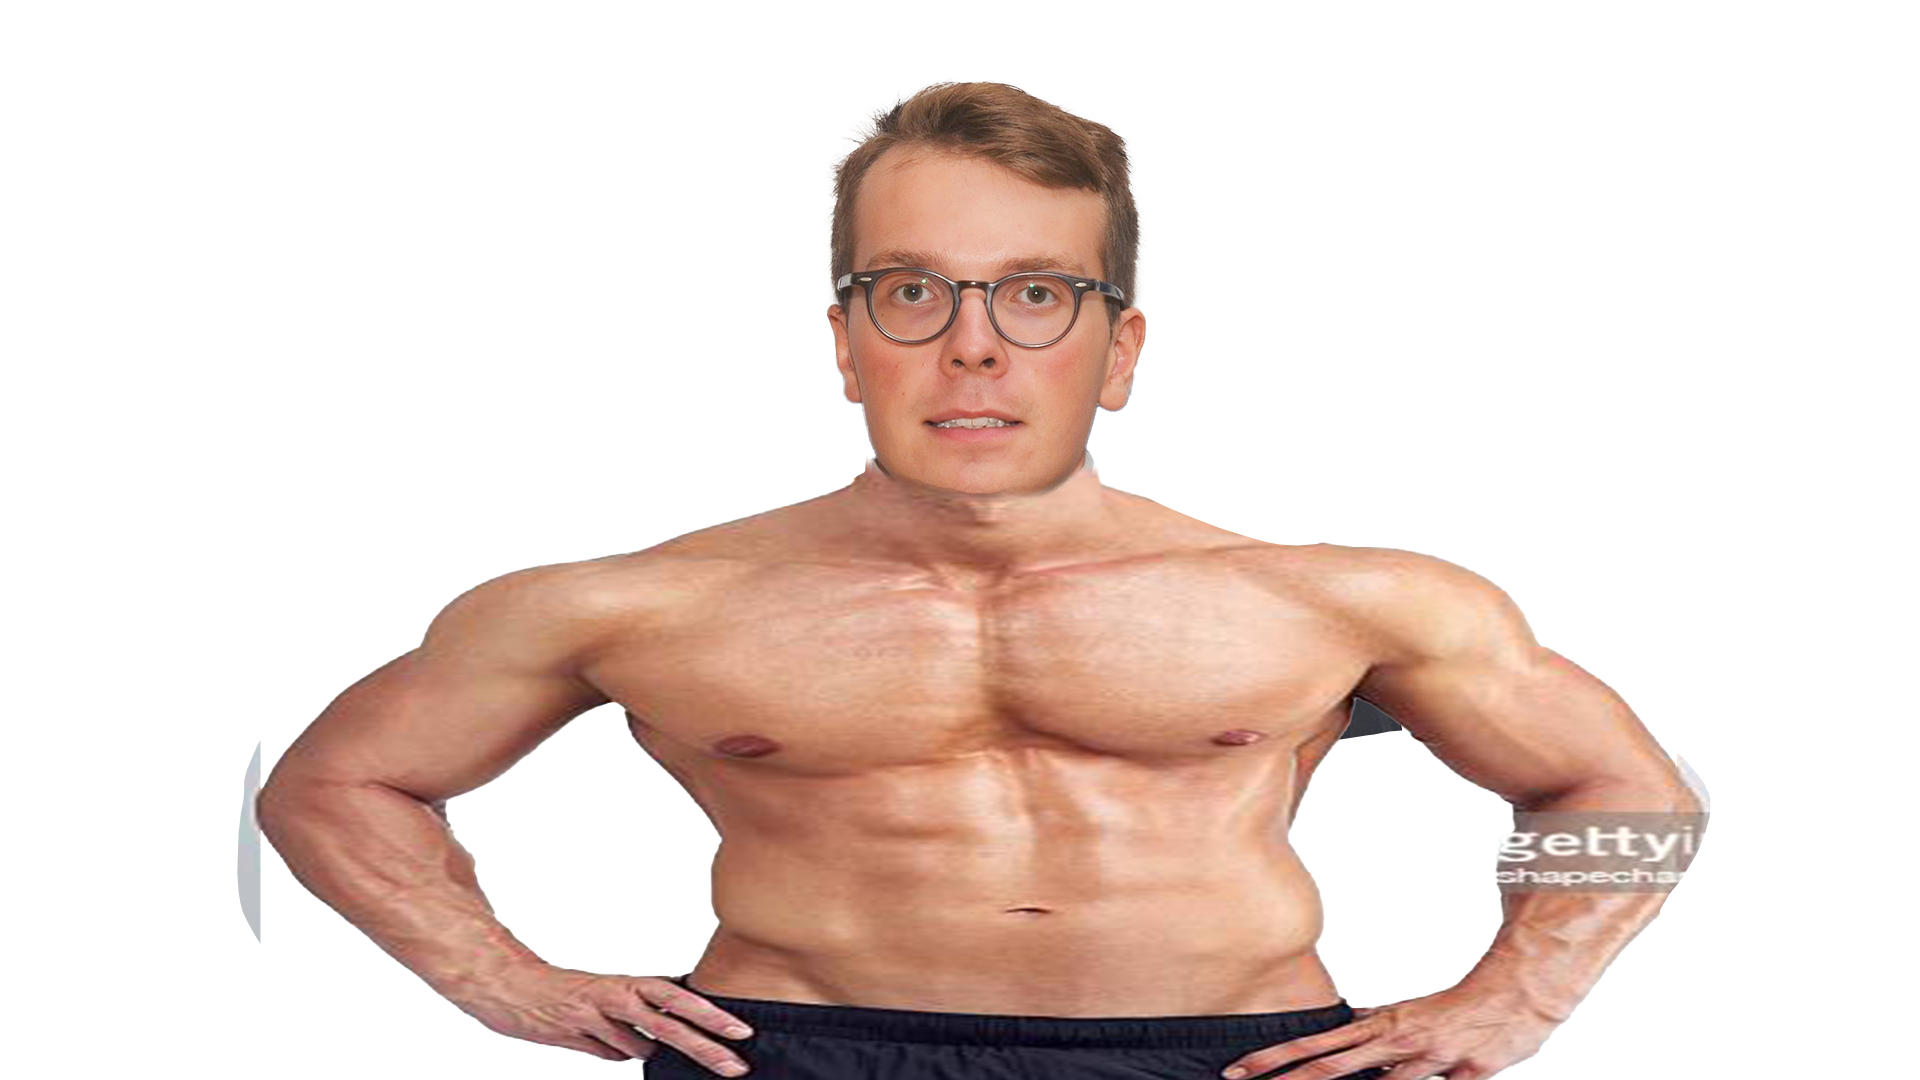
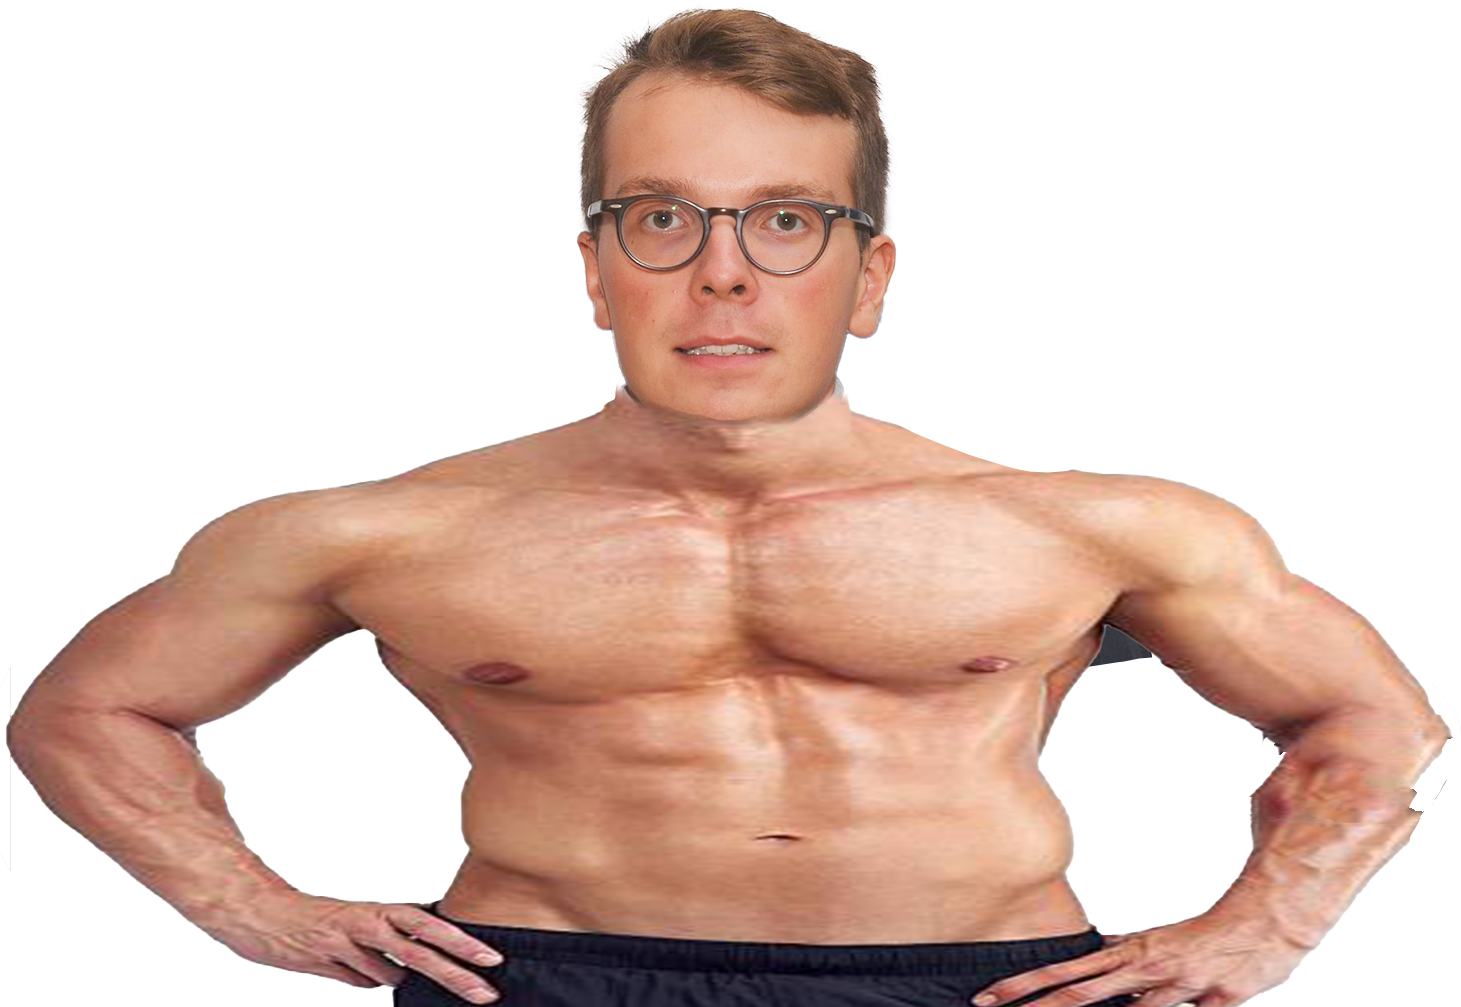
Fix Axus stuff

diff --git a/app/page.tsx b/app/page.tsx
@@ -6,12 +6,9 @@ import Chat from '../components/Chat'
 export default function Home() {
   return (
     <div className='w-full h-full' style={{backgroundImage: 'url("Background.jpg")', backgroundSize: "cover"}}>
-        <div className='flex flex-row h-full w-full'>
-          <div className=" absolute top-10 right-16 text-6xl font-sans" style={{fontFamily: 'Comic Sans MS'}}>SAKARIN VILLAPAITAPELI</div>
-            <NanniWrapper />
-            <div className='flex flex-grow-0'>
-              <Chat />
-            </div>
+        <div className='grid grid-cols-1 grid-rows-2 md:grid-rows-1 md:grid-cols-[3fr_1fr] h-full w-full'>
+            <NanniWrapper/>
+            <Chat />
         </div>
     </div>
   )

diff --git a/components/NanniButton/wrapper.tsx b/components/NanniButton/wrapper.tsx
@@ -2,7 +2,7 @@ import Image from "next/image";
 
 const NanniWrapper = () => {
   return (
-    <div className="w-5/6 h-5/6 padd bg-cover bg-no-repeat absolute bottom-0 right-1/4" style={{backgroundImage: 'url("Sakari.png")', backgroundPosition: "bottom"}}>
+    <div className="w-full h-full bg-contain bg-no-repeat row-span-0 row-start-2 row-end-3 md:row-start-1 md:row-end-2" style={{backgroundImage: 'url("Sakari.png")', backgroundPosition: "bottom"}}>
 
     </div>
   );

diff --git a/components/Chat.tsx b/components/Chat.tsx
@@ -69,7 +69,7 @@ const Chat = () => {
           type="text"
           value={prompt}
           onChange={handleTyping}
-          className="border"
+          className="border w-full"
         />
       </form>
     </div>
